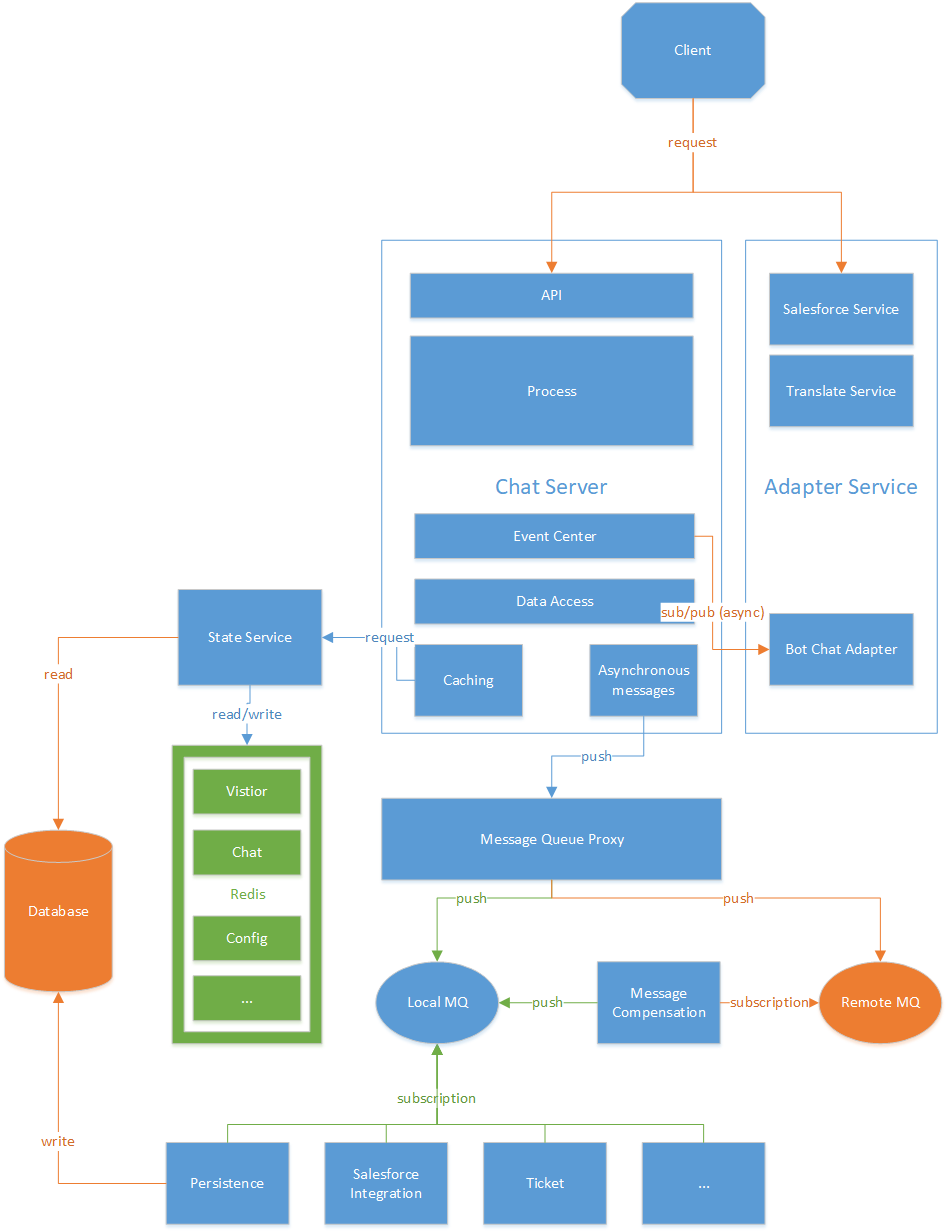
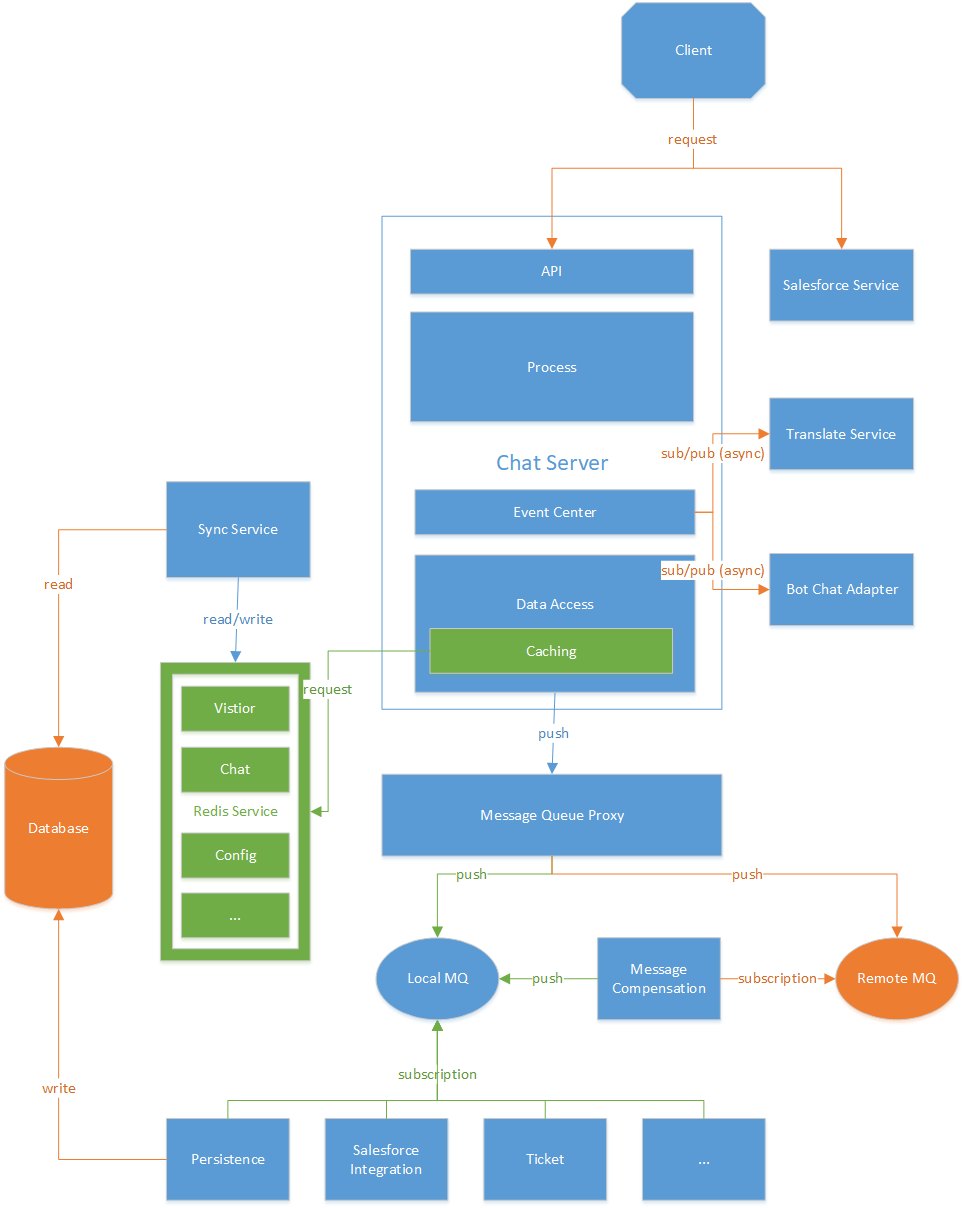
m“

diff --git a/she-ji/chat-server.md b/she-ji/chat-server.md
@@ -1,40 +1,48 @@
+# Chat Server 重构
+## Chat Server现有状况
 
-
-# chat server 解耦
-
-## 现有状况
-
-目前ChatServer作为LiveChat的核心模块，为访客端和客服端提供服务，处理聊天的业务，机器人服务对接，集成其他产品等多项业务。在这样的状况下，问题也比较明显，Chatsever作为各种业务耦合的一个单一应用，目前产品功能版本如果涉及到一部分局部功能的变动，也需要进行Chatserver的修改和测试，这里会有多个风险:
-1.  项目周期长；
-2.	回归测试不完备；
-3.	Chatserver涉及的逻辑多，开发人员难以维护；
-4.	Chatserver本身的负载高，
+1. ChatServer不支持Loadbalance, 不支持服务拓展
+2. 单点ChatServer不能宕机, 无法满足运维经常要打补丁的需求
+3. Chatserver本身的负载高, 同步的IO操作影响服务器吞吐量
+4. Chatserver锁颗粒度比较高, 写锁比较多, 整体的读并发度也上不去, 对于大站点的响应会比较慢
+5. MaxOn功能不完备, 而且维护和测试成本比较高
+6. ChatServer与第三方产品（Salesforce,bot）集成的耦合度比较高, 维护和测试成本高
+7. ChatServer的运行严重依赖于数据库, 但是目前的数据库较大, 维护成本很高, 重启需要很长时间, 在保证可用性的前提下无法对数据库进行大的操作
 
 ## 架构目标
 
-1.	让Chatserver成为一个无状态(状态转移到缓存服务器中供各个程序共享的应用，支持负载均衡)
-2.	将Chatserver中的同步IO操作采用异步操作
+1. ChatServer 支持负载均衡
+  - 使用进程外的状态服务
 
-### 总体思路
+2. 降低ChatServer对数据库的依赖, 使Chat Server可以无数据库运行
+  - 配置数据使用缓存, Chat Server直接访问缓存
+  - 写记录使用消息队列
 
-1.	使用缓存服务器, 将原来ChatServer内存中的数据放到缓存服务器中, 使Chat Server应用可以支持负载均衡, 可以快速重启
-2.	使用消息队列解耦Chat Server中的一部分异步操作
-3.	将Chat Server模块根据业务进行拆分,   将访客/聊天等核心模块与其他非核心模块分离, 保证核心模块可以在没有数据库的状态下运行, 使得在数据库升级过程中可以使用
+  + 限于实际情况, 目前版本保证用户聊天业务能够正常进行, 因此以下的功能在无数据库状态下不能支持:
+    - Agent Console查看历史
+    - Control Panel修改配置信息, 查看报表等
+    - Agent Console中处理Ticket/Social
+    - Report API
+    - Restful API
+3. 将ChatServer中的同步操作改为异步操作, 部分可延迟处理的操作采用消息队列解耦, 降低ChatServer负载
+4. 提高ChatServer的稳定性和并发度
+5. 将ChatServer中的第三方(Salesforce, Bot)操作拆除来, 做成独立的应用, 降低这部分耦合度
+6. 采用Redis自带的拷贝方案, 使得配置数据可以直接到副服务器的Redis服务中, 降低MaximumOn的维护成本
 
-### 拓扑结构
+## 拓扑结构
 
 ![topology](topology.png)
 
 1. 在MaxOn功能基础上, 部署分为主服务器, 以及备用服务器, 异地跨机房部署
 2. 主服务器上的各个主机在一个局域网内
   - 多套Web Server做Load-balance, 对外使用不同的IP, 可以在Load-balance控制器中控制流量到哪个平台
-  - Redis Server在本地Master-slave, 
+  - Redis Server在本地做master-slave部署
+    - 当Master宕掉以后系统可以自动切换到使用Slave
   - 本地有一个MQ Server可以做消息队列管理
   - 本地有一个数据库服务存储数据
 3. 副服务器上部署一套程序
   - 部署一套Web应用
   - Redis服务从主服务器的Redis - Salve同步数据
-  - DB Server仅存储应用所需的配置数据
   - 本地的MQ Server作为副服务器的消息队列管理
 4. 远程有一个MQ Service, 可以在本地消息服务失效时使用(MaxOn 主副使用同一个远程的MQ Server)
 
@@ -43,37 +51,57 @@
 
   ![chatserver](chatserver-arch.png)
 
-### 模块说明
-
-#### Chat Server 
-Chat Server应用程序分5个模块: API, Process, Caching, EventCenter, Asynchronous Messages
+### Chat Server 
+Chat Server应用程序分5个模块: API, Process, EventCenter, DataAccess
 1. API
-  - 提供Visitor, Agent, Chat  的接口
+  - 提供Visitor, Agent, Chat的接口, 做序列化反序列化, 聚合处理结果
 2. Process
-  - 处理Visitor, Agent, Chat的请求
+  - 处理Visitor, Agent, Chat的请求逻辑
 3. EventCenter
-  - 注册/分发ChatServer中的事件
+  - 提供注册/分发ChatServer中的事件, 使得Bot/Translation的操作可以进入ChatServer中的事件流中
 4. DataAccess
-  - 数据访问层, 在其之下有可能是访问数据库/内存/StateService/MQ
+  - 数据访问层, 对上公开数据的读写操作, 在其之下有可能是访问数据库/内存/StateService/MQ等
+    - Caching 
+      - 提供缓存数据的访问, 包括配置信息, Visitor, Chat等内容
+      - Caching 后面可以是使用Redis这样的缓存服务器, 也可以为进程内的数据, 或者二者都有
 
-#### Adapater Service
+### Adapater Service
 
-支撑Chat Server功能的其他一些服务，主要是访问第三方服务, 处理返回
+支撑Chat Server功能的其他一些服务, 主要是访问第三方服务, 处理返回
 1. Salesforce Service
   - salesforce相关功能的一些服务, 由客户端调用
+2. Translation Service
+  - 聊天自动翻译的功能, 响应ChatServer中的事件调用第三方API, 返回以后更新聊天
 2. Bot Chat Adapter
-  - bot相关的功能, 监听ChatServer中的一些事件, 响应事件以后调用bot api, 返回结果插入到聊天消息中
+  - Chat中关于Bot的功能, 监听ChatServer中的一些事件, 响应事件以后调用bot api, 返回结果插入到聊天消息中
 
 #### MQ Proxy
 
 消息队列的代理服务, 可以将消息插入到本地的消息队列服务器中, 在本地消息队列不可用时插入到远程消息队列服务器中
 
 1. Message compensation
-  - 消息的补偿服务, 主要是拉取远程的消息队列服务器，插入到本地的消息队列中
-  - 使用唯一的MessageId 防止消息重复插入
+  - 消息的补偿服务, 主要是拉取远程的消息队列服务器, 插入到本地的消息队列中
+  - 使用唯一的MessageId防止消息重复插入
 
 2. Subscription Service
-  - 消费消息的服务, 做一些异步操作， 主要为持久化, 第三方集成等
+  - 消费消息的服务, 做一些异步操作
+    - 持久化
+      - Chat
+      - Offline Message
+      - Visitor
+      - Agent
+      - 其他信息
+        - Agent状态变更记录
+        - Ban
+        - Queue Logs
+        - 站点访问记录 (5m统计一次)
+        - 邀请记录
+        - CannedMessage使用记录
+        - Conversions
+    - Webhook
+    - 发邮件
+    - Ticket集成
+    - Salesforce集成, Zendesk集成
 
 #### 缓存服务
 
@@ -95,6 +123,8 @@ Chat Server应用程序分5个模块: API, Process, Caching, EventCenter, Asynch
 
 ## 应用发布升级
 
+### 发布方式
+
 1. 直接发布程序, 应用重启, IIS会处理请求不会因为重启而失败
   - 旧的请求会在旧的程序中处理, 待旧的请求处理完以后, 进程会关掉
   - 新的请求会在新程序启动以后再处理
@@ -108,17 +138,66 @@ Chat Server应用程序分5个模块: API, Process, Caching, EventCenter, Asynch
   - 采用maximumOn切换到副服务器发布
   - 主服务器升级以后, 将服务器切换回主服务器
 
-### Redis数据变更影响
 
-修改Redis数据对象，对象采用hash类型， 新程序对对象做如下变更
-  1.	增加对象 – 可以同时兼容新老程序，只需要修改用到这个字段的模块
-  2.	对象增加字段 – 可以同时兼容新老程序， 只需要修改用到这个字段的模块
-    - 新程序模块读取老程序模块保存的对象，在反序列化时为新字段添加默认值
-    - 老程序模块读取新程序模块保存的对象，反序列化的时候会忽略新添加的字段
-    - 老程序模块修改新程序模块保存的对象，只会修改自己定义的那些字段，不会修改添加的字段
-    - 新程序模块修改老程序模块保存的对象，完整保存新的对象
-  3.	修改基本数据类型的字段, 因为实际存储都是以string来存储, 因为在类型转化没有问题的前提下可以完全兼容新老版本，需要修改用到这个字段的模块
-  4.	修改对象类型的字段(增加属性)，因为针对这种类型是通过json存储, 应此需要将使用到这个对象的所有模块同步修改
-  - 新程序访问老程序的数据，在反序列化时添加默认值
-  5.	删除对象的字段，因为删除上一个版本在使用的字段可能导致程序回滚失败, 因此只能删除已经确定不用的，在这种情况下也可以同时支持新老程序
+### 根据变更范围觉得发布方式
+
+1. Web应用发布, Redis状态无改动
+  - 可以直接替换dll发布程序/Loadbalance发布, 取决于部署的平台是有Loadbalance
+  - 回滚: 可以直接使用旧的dll进行回滚
+
+2. Web应用发布, Redis状态有改动, 但是新老数据可以同时兼容新老程序
+  - 可以直接替换dll发布程序/Loadbalance发布, 取决于部署的平台是有Loadbalance
+  - 回滚: 可以直接使用旧的dll回归
+
+3. Web应用发布, Redis状态有改动, 新/老数据可以兼容新程序, 但是新的数据不能兼容老程序
+  - 可以采用Loadbalance发布, 或者MaximumOn切换发布
+  - 回滚：因为Redis数据无法回滚, 因此在这种情况下回滚只能通过MaximumOn切换以后再回退程序
+
+4. 整个发布, Redis数据不兼容, 即新的程序无法直接访问老的Redis数据
+  - 采用MaximumOn发布
+    - 发布过程中需要让副服务器始终跑旧程序, 需要保证切换过程可以做到从新切换到老的
+  - 回滚: 采用MaximumOn回滚
+
+5. Web应用发布, 数据库升级 
+  - 数据库的升级不影响ChatServer发布, 只有程序是否对Redis的兼容性改动才会影响发布方式，但是需要按照一定的流程发布
+    - 停止Redis Sync, Portal, Persistence等操作数据库的服务
+    - 升级数据库
+    - 发布应用程序
+    - 启动停掉的程序
+  - 回滚:  数据库回滚可以同发布流程
+
+### 运维维护
+
+1. Web Server维护 (有Loadbalance才允许不停服务下维护)
+  - 在Loadbalance中将需要维护的服务器流量切掉
+  - 对Web Server服务就行维护
+  - 启动服务
+  - 在Loadbalance中将流量切回来
+
+2. Redis服务维护
+  - Master 维护, 需要将Redis切换到Slave, 停掉Redis-Master那台服务, 做维护, 再起来, 配置为从原来的Slave同步, 如果需要将Redis切回来则可以再讲Master切回来
+  - Slave 维护, 将MaximumOn中的Redis切换到从Master同步, 然后直接维护Slave服务
+
+3. 数据库服务维护
+  - 需要停止所有跟数据库相关的应用以后再进行维护
+
+4. MQ Server维护
+  - 保证远程MQ Server可用的情况下可以对MQ Server做停机维护
+
+5. 整个平台迁移
+  - 需要切换到MaximumOn以后再做平台迁移事宜
+
+### 程序对Redis数据变更的兼容性支持
+
+修改Redis数据对象, 对象采用hash类型,  新程序对对象做如下变更
+  1.	增加对象 – 可以同时兼容新老程序, 只需要修改用到这个字段的模块
+  2.	对象增加字段 – 可以同时兼容新老程序,  只需要修改用到这个字段的模块
+    - 新程序模块读取老程序模块保存的对象, 在反序列化时为新字段添加默认值
+    - 老程序模块读取新程序模块保存的对象, 反序列化的时候会忽略新添加的字段
+    - 老程序模块修改新程序模块保存的对象, 只会修改自己定义的那些字段, 不会修改添加的字段
+    - 新程序模块修改老程序模块保存的对象, 完整保存新的对象
+  3.	修改基本数据类型的字段, 因为实际存储都是以string来存储, 因为在类型转化没有问题的前提下可以完全兼容新老版本, 需要修改用到这个字段的模块
+  4.	修改对象类型的字段(增加属性), 因为针对这种类型是通过json存储, 应此需要将使用到这个对象的所有模块同步修改
+  - 新程序访问老程序的数据, 在反序列化时添加默认值
+  5.	删除对象的字段, 因为删除上一个版本在使用的字段可能导致程序回滚失败, 因此只能删除已经确定不用的, 在这种情况下也可以同时支持新老程序
 
